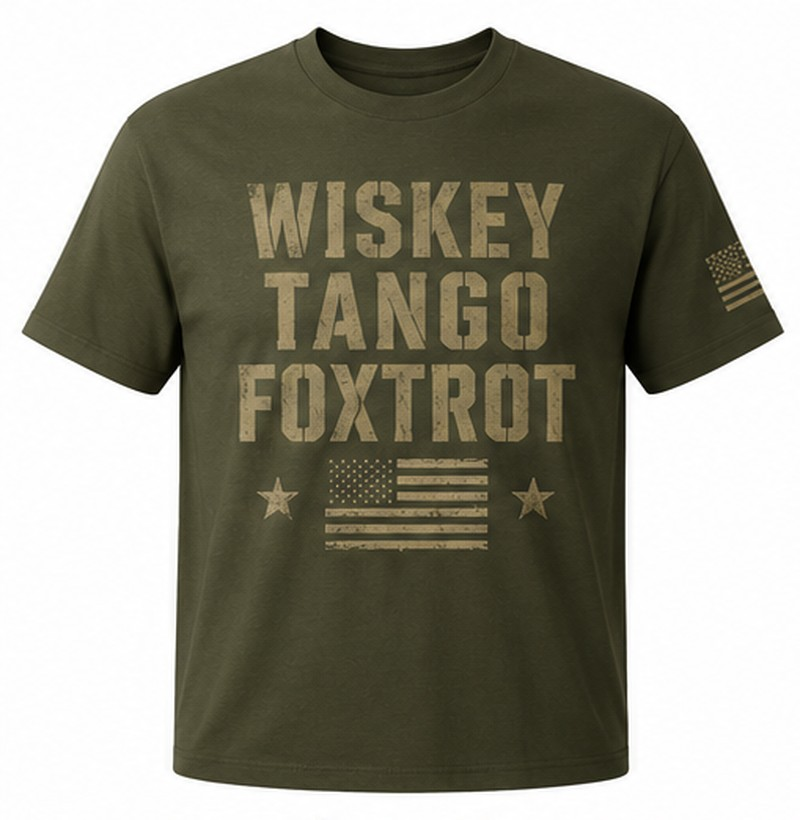
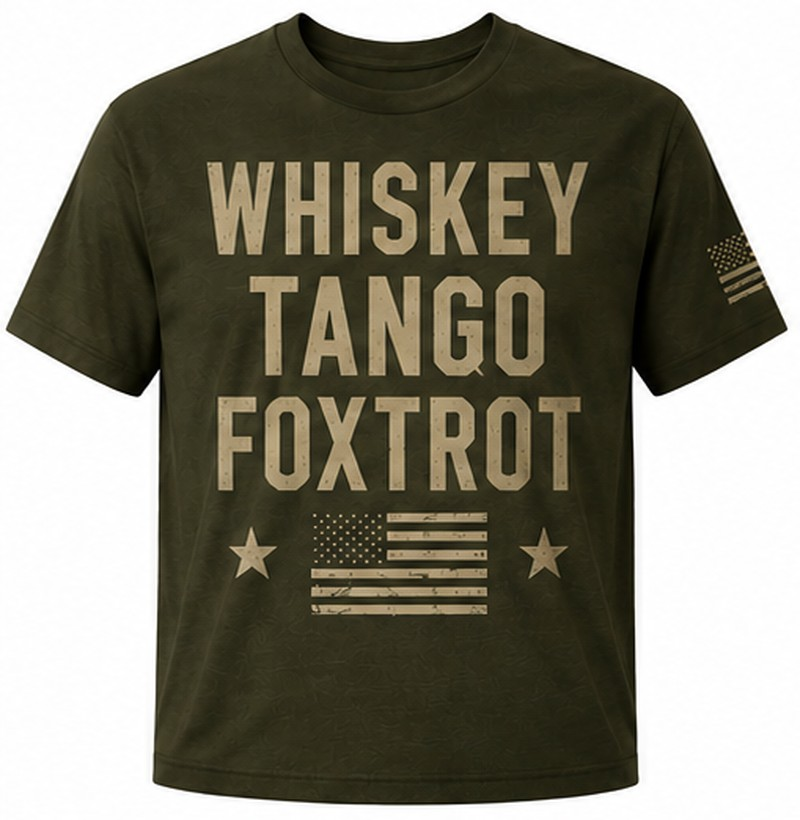
Updated art: WHISKEY typo fixed, new DD-214 gray colorway, cleaner Yea man; sync card copy

diff --git a/veteran-line.html b/veteran-line.html
@@ -38,7 +38,7 @@
       <div class="grid">
 
         <div class="product">
-          <div class="art"><span class="give">Gives back</span><img src="img/vet-wtf.jpg" alt="Military green tee with WHISKEY TANGO FOXTROT in stencil over an American flag with stars, flag on sleeve"></div>
+          <div class="art"><span class="give">Gives back</span><img src="img/vet-wtf.jpg" alt="Military green tee with WHISKEY TANGO FOXTROT stacked over an American flag with stars"></div>
           <div class="pbody">
             <div class="pname">The Whiskey Tango Foxtrot Tee</div>
             <div class="pdesc">Sometimes it's the only appropriate response.</div>
@@ -47,10 +47,10 @@
         </div>
 
         <div class="product">
-          <div class="art"><span class="give">Gives back</span><img src="img/vet-dd214.jpg" alt="Military green tee with DD-214 ALUMNI in stencil, a distressed flag, dog tags, and ONCE SERVED ALWAYS EARNED"></div>
+          <div class="art"><span class="give">Gives back</span><img src="img/vet-dd214.jpg" alt="Heather gray tee with DD-214 ALUMNI in black block letters over a distressed American flag"></div>
           <div class="pbody">
             <div class="pname">The DD-214 Alumni Tee</div>
-            <div class="pdesc">The most exclusive alumni association there is. Once served — always earned.</div>
+            <div class="pdesc">The most exclusive alumni association there is. You know if you know.</div>
             <div class="prow"><span class="price">$28</span><button class="add" onclick="addToCart('The DD-214 Alumni Tee',28)">Add to Cart</button></div>
           </div>
         </div>
@@ -74,7 +74,7 @@
         </div>
 
         <div class="product">
-          <div class="art"><span class="give">Gives back</span><img src="img/vet-yea-man.jpg" alt="Navy tee with Yea, man! in retro script and an American flag on the sleeve"></div>
+          <div class="art"><span class="give">Gives back</span><img src="img/vet-yea-man.jpg" alt="Navy tee with Yea, man! in retro cream script over a red underline swash"></div>
           <div class="pbody">
             <div class="pname">The Ed</div>
             <div class="pdesc">Some guys give speeches. Ed answers every hard day with a "Yea, man!" — and somehow that's enough.</div>
